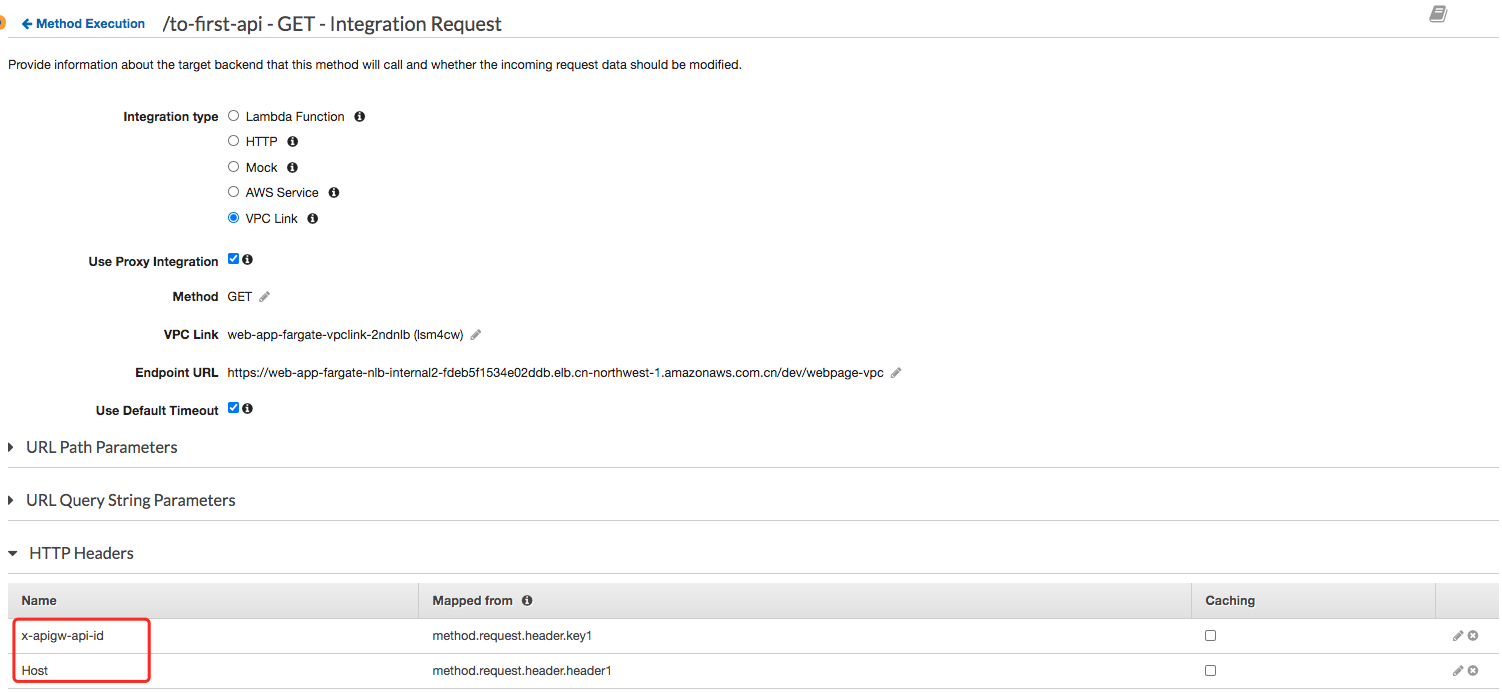
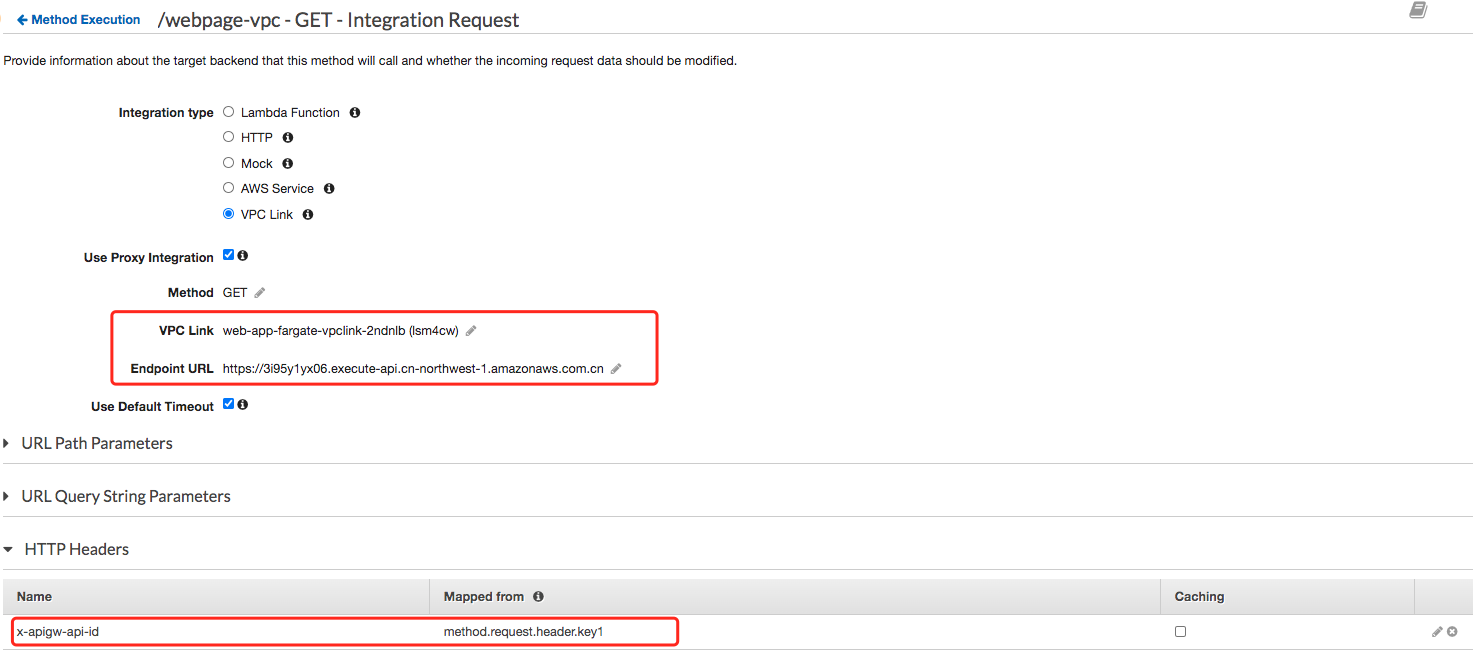
reproduce the 504 error

diff --git a/devops/apigw/2PrivateAPI-Testing.md b/devops/apigw/2PrivateAPI-Testing.md
@@ -7,7 +7,7 @@
 4. In account 1: VPC endpoint vpce-0d4d61b31cecd49fc used for private API Fargate-webpage-private (3i95y1yx06) 
 5. In account 1: NLB web-app-fargate-nlb-internal2 route traffic to private API Fargate-webpage-private (3i95y1yx06) 
 6. In account 1: VPC link web-app-fargate-vpclink-2ndnlb (lsm4cw) point to NLB web-app-fargate-nlb-internal2
-7. In account 1: Private API Fargate-private-to-first-api (v944po9kjb) /to-first-api path GET method point to VPC link integration web-app-fargate-vpclink-2ndnlb (lsm4cw) 
+7. In account 1: Private API Fargate-private-to-first-api (v944po9kjb) /webpage-vpc path GET method point to VPC link integration web-app-fargate-vpclink-2ndnlb (lsm4cw) 
 8. In account 1: VPC endpoint vpce-080de204ca78d2883 in account 1 consumer VPC for private API Fargate-private-to-first-api (v944po9kjb)
 9. In account 2: VPC endpoint vpce-08cbeb493b8abab4f used for private API Fargate-private-to-first-api (v944po9kjb) 
 
@@ -78,7 +78,7 @@ curl -v -k https://web-app-fargate-nlb-internal2-fdeb5f1534e02ddb.elb.cn-northwe
 
 ## On Provider VPC of account1 or Consumer VPC of account1 NLB web-app-fargate-nlb-internal2 with -H 'Host: 3i95y1yx06.execute-api.cn-northwest-1.amazonaws.com' - Result: 403 Forbidden
 
-The 403 caused by missing x-apigw-api-id due to NLB invoke the VPCE of API GW.
+The 403 caused by missing x-apigw-api-id when NLB invoke the VPCE of API GW.
 
 ```bash
 curl -k -v https://web-app-fargate-nlb-internal2-fdeb5f1534e02ddb.elb.cn-northwest-1.amazonaws.com.cn/dev/webpage-vpc-non-proxy -H 'Host: 3i95y1yx06.execute-api.cn-northwest-1.amazonaws.com'
@@ -184,7 +184,7 @@ curl -v https://web-app-fargate-nlb-internal2-fdeb5f1534e02ddb.elb.cn-northwest-
 
 ## On Provider VPC of account1 or Consumer VPC of account1 invoke the Private API Fargate-private-to-first-api
 
-curl -k -v https://v944po9kjb.execute-api.cn-northwest-1.amazonaws.com.cn/dev/to-first-api
+curl -k -v https://v944po9kjb.execute-api.cn-northwest-1.amazonaws.com.cn/dev/webpage-vpc
 *   Trying 172.16.33.221...
 * TCP_NODELAY set
 * Connected to v944po9kjb.execute-api.cn-northwest-1.amazonaws.com.cn (172.16.33.221) port 443 (#0)
@@ -213,7 +213,7 @@ curl -k -v https://v944po9kjb.execute-api.cn-northwest-1.amazonaws.com.cn/dev/to
 *  expire date: Apr 14 12:00:00 2021 GMT
 *  issuer: C=US; O=Amazon; OU=Server CA 1B; CN=Amazon
 *  SSL certificate verify ok.
-> GET /dev/to-first-api HTTP/1.1
+> GET /dev/webpage-vpc HTTP/1.1
 > Host: v944po9kjb.execute-api.cn-northwest-1.amazonaws.com.cn
 > User-Agent: curl/7.61.1
 > Accept: */*
@@ -237,7 +237,7 @@ Why 500 Internal server error? Let's use the API GW console Test client to find 
 ```bash
 Execution log for request 2cd9f026-8ece-42b5-a448-fcbf917ba63e
 Tue Jun 23 02:21:45 UTC 2020 : Starting execution for request: 2cd9f026-8ece-42b5-a448-fcbf917ba63e
-Tue Jun 23 02:21:45 UTC 2020 : HTTP Method: GET, Resource Path: /to-first-api
+Tue Jun 23 02:21:45 UTC 2020 : HTTP Method: GET, Resource Path: /webpage-vpc
 Tue Jun 23 02:21:45 UTC 2020 : Method request path: {}
 Tue Jun 23 02:21:45 UTC 2020 : Method request query string: {}
 Tue Jun 23 02:21:45 UTC 2020 : Method request headers: {}
@@ -253,36 +253,13 @@ Tue Jun 23 02:21:45 UTC 2020 : Method completed with status: 500
 The `500 Internal server error` is caused by SSL check the request Host does not match the certificate subject
 Could we pass through the Host of final private API Fargate-webpage-private?
 
-## Directly invoke from API GW console Test client with
-Host:3i95y1yx06.execute-api.cn-northwest-1.amazonaws.com
-x-apigw-api-id:3i95y1yx06
+Let's double check the API Fargate-private-to-first-api private integration setting, seems I do not set correct Endpoint URL
 
-```bash
-Execution log for request ffff1427-15d4-461e-9f09-175229978c9f
-Tue Jun 23 01:27:35 UTC 2020 : Starting execution for request: ffff1427-15d4-461e-9f09-175229978c9f
-Tue Jun 23 01:27:35 UTC 2020 : HTTP Method: GET, Resource Path: /to-first-api-non-proxy
-Tue Jun 23 01:27:35 UTC 2020 : Method request path: {}
-Tue Jun 23 01:27:35 UTC 2020 : Method request query string: {}
-Tue Jun 23 01:27:35 UTC 2020 : Method request headers: {Host= 3i95y1yx06.execute-api.cn-northwest-1.amazonaws.com}
-Tue Jun 23 01:27:35 UTC 2020 : Method request body before transformations: 
-Tue Jun 23 01:27:35 UTC 2020 : Endpoint request URI: https://web-app-fargate-nlb-internal2-fdeb5f1534e02ddb.elb.cn-northwest-1.amazonaws.com.cn/dev/webpage-vpc-non-proxy
-Tue Jun 23 01:27:35 UTC 2020 : Endpoint request headers: {x-amzn-apigateway-api-id=v944po9kjb, Accept=application/json, User-Agent=AmazonAPIGateway_v944po9kjb, Host=web-app-fargate-nlb-internal2-fdeb5f1534e02ddb.elb.cn-northwest-1.amazonaws.com.cn, X-Amzn-Trace-Id=Root=1-5ef15a87-b31c1b2f5b53eaff76a0b7f2}
-Tue Jun 23 01:27:35 UTC 2020 : Endpoint request body after transformations: 
-Tue Jun 23 01:27:35 UTC 2020 : Sending request to https://web-app-fargate-nlb-internal2-fdeb5f1534e02ddb.elb.cn-northwest-1.amazonaws.com.cn/dev/webpage-vpc-non-proxy
-Tue Jun 23 01:27:35 UTC 2020 : Execution failed due to configuration error: Host name 'web-app-fargate-nlb-internal2-fdeb5f1534e02ddb.elb.cn-northwest-1.amazonaws.com.cn' does not match the certificate subject provided by the peer (CN=*.execute-api.cn-northwest-1.amazonaws.com.cn)
-Tue Jun 23 01:27:35 UTC 2020 : Method completed with status: 500
-```
+The uri parameter is not used for routing requests to your endpoint, but is used for setting the Host header and for certificate validation.
 
-Seems the default header cannot pass through:
-
-```bash
-Endpoint request headers: {x-amzn-apigateway-api-id=v944po9kjb, Accept=application/json, User-Agent=AmazonAPIGateway_v944po9kjb, Host=web-app-fargate-nlb-internal2-fdeb5f1534e02ddb.elb.cn-northwest-1.amazonaws.com.cn, X-Amzn-Trace-Id=Root=1-5ef15a87-b31c1b2f5b53eaff76a0b7f2}
-```
-
-So we define the customer header in API GW and do the mapping
+So the correct value should be the first private API Fargate-webpage-private (3i95y1yx06): https://3i95y1yx06.execute-api.cn-northwest-1.amazonaws.com.cn
 
 ## Define propagate customer header
-method.request.header.header1
 method.request.header.key1
 
 ![Fargate-private-to-first-api-customerheader1](media/Fargate-private-to-first-api-customerheader1.png)
@@ -290,32 +267,37 @@ method.request.header.key1
 ![Fargate-private-to-first-api-customerheader2](media/Fargate-private-to-first-api-customerheader2.png)
 
 1. Directly invoke from API GW console Test client with 
-
-header1:3i95y1yx06.execute-api.cn-northwest-1.amazonaws.com
 key1:3i95y1yx06
 
 ```bash
-Execution log for request 3db20ab4-7ec5-4725-b080-21f15f11a805
-Tue Jun 23 01:57:18 UTC 2020 : Starting execution for request: 3db20ab4-7ec5-4725-b080-21f15f11a805
-Tue Jun 23 01:57:18 UTC 2020 : HTTP Method: GET, Resource Path: /to-first-api
-Tue Jun 23 01:57:18 UTC 2020 : Method request path: {}
-Tue Jun 23 01:57:18 UTC 2020 : Method request query string: {}
-Tue Jun 23 01:57:18 UTC 2020 : Method request headers: {key1=3i95y1yx06, header1=3i95y1yx06.execute-api.cn-northwest-1.amazonaws.com}
-Tue Jun 23 01:57:18 UTC 2020 : Method request body before transformations: 
-Tue Jun 23 01:57:18 UTC 2020 : Endpoint request URI: https://web-app-fargate-nlb-internal2-fdeb5f1534e02ddb.elb.cn-northwest-1.amazonaws.com.cn/dev/webpage-vpc
-Tue Jun 23 01:57:18 UTC 2020 : Endpoint request headers: {key1=3i95y1yx06, header1=3i95y1yx06.execute-api.cn-northwest-1.amazonaws.com, x-amzn-apigateway-api-id=v944po9kjb, User-Agent=AmazonAPIGateway_v944po9kjb, Host=web-app-fargate-nlb-internal2-fdeb5f1534e02ddb.elb.cn-northwest-1.amazonaws.com.cn, x-apigw-api-id=3i95y1yx06}
-Tue Jun 23 01:57:18 UTC 2020 : Endpoint request body after transformations: 
-Tue Jun 23 01:57:18 UTC 2020 : Sending request to https://web-app-fargate-nlb-internal2-fdeb5f1534e02ddb.elb.cn-northwest-1.amazonaws.com.cn/dev/webpage-vpc
-Tue Jun 23 01:57:18 UTC 2020 : Execution failed due to configuration error: Host name 'web-app-fargate-nlb-internal2-fdeb5f1534e02ddb.elb.cn-northwest-1.amazonaws.com.cn' does not match the certificate subject provided by the peer (CN=*.execute-api.cn-northwest-1.amazonaws.com.cn)
-Tue Jun 23 01:57:18 UTC 2020 : Method completed with status: 500
+Execution log for request 184996c0-dfb8-4095-9305-59b46a06f147
+Tue Jun 23 05:56:11 UTC 2020 : Starting execution for request: 184996c0-dfb8-4095-9305-59b46a06f147
+Tue Jun 23 05:56:11 UTC 2020 : HTTP Method: GET, Resource Path: /webpage-vpc
+Tue Jun 23 05:56:11 UTC 2020 : Method request path: {}
+Tue Jun 23 05:56:11 UTC 2020 : Method request query string: {}
+Tue Jun 23 05:56:11 UTC 2020 : Method request headers: {key1=3i95y1yx06}
+Tue Jun 23 05:56:11 UTC 2020 : Method request body before transformations: 
+Tue Jun 23 05:56:11 UTC 2020 : Endpoint request URI: https://3i95y1yx06.execute-api.cn-northwest-1.amazonaws.com.cn
+Tue Jun 23 05:56:11 UTC 2020 : Endpoint request headers: {key1=3i95y1yx06, x-amzn-apigateway-api-id=v944po9kjb, User-Agent=AmazonAPIGateway_v944po9kjb, Host=3i95y1yx06.execute-api.cn-northwest-1.amazonaws.com.cn, x-apigw-api-id=3i95y1yx06}
+Tue Jun 23 05:56:11 UTC 2020 : Endpoint request body after transformations: 
+Tue Jun 23 05:56:11 UTC 2020 : Sending request to https://3i95y1yx06.execute-api.cn-northwest-1.amazonaws.com.cn
+Tue Jun 23 05:56:11 UTC 2020 : Received response. Status: 403, Integration latency: 19 ms
+Tue Jun 23 05:56:11 UTC 2020 : Endpoint response headers: {Server=Server, Date=Tue, 23 Jun 2020 05:56:11 GMT, Content-Type=application/json, Content-Length=23, Connection=keep-alive, x-amzn-RequestId=da814d3f-8d91-4eae-94a9-f2b283ed0cf7, x-amzn-ErrorType=ForbiddenException, x-amz-apigw-id=OkTrUEOEZPgFQFw=}
+Tue Jun 23 05:56:11 UTC 2020 : Endpoint response body before transformations: {"message":"Forbidden"}
+Tue Jun 23 05:56:11 UTC 2020 : Method response body after transformations: {"message":"Forbidden"}
+Tue Jun 23 05:56:11 UTC 2020 : Method response headers: {Server=Server, Date=Tue, 23 Jun 2020 05:56:11 GMT, Content-Type=application/json, Content-Length=23, Connection=keep-alive, x-amzn-RequestId=da814d3f-8d91-4eae-94a9-f2b283ed0cf7, x-amzn-ErrorType=ForbiddenException, x-amz-apigw-id=OkTrUEOEZPgFQFw=}
+Tue Jun 23 05:56:11 UTC 2020 : Successfully completed execution
+Tue Jun 23 05:56:11 UTC 2020 : Method completed with status: 403
 ```
 
-2. We test on Provider VPC of account1 or Consumer VPC of account1 invoke the Private API Fargate-private-to-first-api with
+2. We test on Provider VPC of account1 or Consumer VPC of account1 invoke the Private API Fargate-private-to-first-api
+
+- Use Proxy Integration
 
 ```bash
-curl -k -v https://v944po9kjb.execute-api.cn-northwest-1.amazonaws.com.cn/dev/to-first-api -H 'key1:3i95y1yx06' -H 'header1:3i95y1yx06.execute-api.cn-northwest-1.amazonaws.com'
+curl -k -v https://v944po9kjb.execute-api.cn-northwest-1.amazonaws.com.cn/dev/webpage-vpc -H 'key1:3i95y1yx06'
 
-   Trying 172.16.33.221...
+*   Trying 172.16.33.221...
 * TCP_NODELAY set
 * Connected to v944po9kjb.execute-api.cn-northwest-1.amazonaws.com.cn (172.16.33.221) port 443 (#0)
 * ALPN, offering h2
@@ -343,24 +325,182 @@ curl -k -v https://v944po9kjb.execute-api.cn-northwest-1.amazonaws.com.cn/dev/to
 *  expire date: Apr 14 12:00:00 2021 GMT
 *  issuer: C=US; O=Amazon; OU=Server CA 1B; CN=Amazon
 *  SSL certificate verify ok.
-> GET /dev/to-first-api HTTP/1.1
+> GET /dev/webpage-vpc HTTP/1.1
 > Host: v944po9kjb.execute-api.cn-northwest-1.amazonaws.com.cn
 > User-Agent: curl/7.61.1
 > Accept: */*
 > key1:3i95y1yx06
-> header1:3i95y1yx06.execute-api.cn-northwest-1.amazonaws.com
 >
-< HTTP/1.1 500 Internal Server Error
+< HTTP/1.1 504 Gateway Timeout
 < Server: Server
-< Date: Tue, 23 Jun 2020 03:18:23 GMT
+< Date: Tue, 23 Jun 2020 05:57:06 GMT
 < Content-Type: application/json
-< Content-Length: 36
+< Content-Length: 56
 < Connection: keep-alive
-< x-amzn-RequestId: 54bdd397-329b-4351-94f5-53379d3bfc43
+< x-amzn-RequestId: 32df3c57-da89-4d29-b584-627b85e273b9
 < x-amzn-ErrorType: InternalServerErrorException
-< x-amz-apigw-id: Oj8j7Eb95PgFjMw=
+< x-amz-apigw-id: OkTz-Fm25PgFdlg=
 <
 * Connection #0 to host v944po9kjb.execute-api.cn-northwest-1.amazonaws.com.cn left intact
-{"message": "Internal server error"}
+{"message": "Network error communicating with endpoint"}
 ```
 
+- Non Use Proxy Integration
+
+```bash
+curl -k -v https://v944po9kjb.execute-api.cn-northwest-1.amazonaws.com.cn/dev/webpage-vpc-non-proxy -H 'key1:3i95y1yx06'
+*   Trying 172.16.33.221...
+* TCP_NODELAY set
+* Connected to v944po9kjb.execute-api.cn-northwest-1.amazonaws.com.cn (172.16.33.221) port 443 (#0)
+* ALPN, offering h2
+* ALPN, offering http/1.1
+* Cipher selection: ALL:!EXPORT:!EXPORT40:!EXPORT56:!aNULL:!LOW:!RC4:@STRENGTH
+* successfully set certificate verify locations:
+*   CAfile: /etc/pki/tls/certs/ca-bundle.crt
+  CApath: none
+* TLSv1.2 (OUT), TLS header, Certificate Status (22):
+* TLSv1.2 (OUT), TLS handshake, Client hello (1):
+* TLSv1.2 (IN), TLS handshake, Server hello (2):
+* TLSv1.2 (IN), TLS handshake, Certificate (11):
+* TLSv1.2 (IN), TLS handshake, Server key exchange (12):
+* TLSv1.2 (IN), TLS handshake, Server finished (14):
+* TLSv1.2 (OUT), TLS handshake, Client key exchange (16):
+* TLSv1.2 (OUT), TLS change cipher, Change cipher spec (1):
+* TLSv1.2 (OUT), TLS handshake, Finished (20):
+* TLSv1.2 (IN), TLS change cipher, Change cipher spec (1):
+* TLSv1.2 (IN), TLS handshake, Finished (20):
+* SSL connection using TLSv1.2 / ECDHE-RSA-AES128-GCM-SHA256
+* ALPN, server did not agree to a protocol
+* Server certificate:
+*  subject: CN=*.execute-api.cn-northwest-1.amazonaws.com.cn
+*  start date: Apr 24 00:00:00 2020 GMT
+*  expire date: Apr 14 12:00:00 2021 GMT
+*  issuer: C=US; O=Amazon; OU=Server CA 1B; CN=Amazon
+*  SSL certificate verify ok.
+> GET /dev/webpage-vpc-non-proxy HTTP/1.1
+> Host: v944po9kjb.execute-api.cn-northwest-1.amazonaws.com.cn
+> User-Agent: curl/7.61.1
+> Accept: */*
+> key1:3i95y1yx06
+>
+< HTTP/1.1 200 OK
+< Server: Server
+< Date: Tue, 23 Jun 2020 05:58:07 GMT
+< Content-Type: application/json
+< Content-Length: 24
+< Connection: keep-alive
+< x-amzn-RequestId: babdf8f5-5ba0-41c9-9973-07d39a8dd53f
+< x-amz-apigw-id: OkT9cFi55PgFRpA=
+< X-Amzn-Trace-Id: Root=1-5ef199ef-8d47ca618435e73b508686ed
+<
+{"message":"Forbidden"}
+* Connection #0 to host v944po9kjb.execute-api.cn-northwest-1.amazonaws.com.cn left intact
+```
+
+3. We test on Consumer VPC of account2 invoke the Private API Fargate-private-to-first-api
+
+- Use Proxy Integration
+
+```bash
+curl -k -v https://v944po9kjb.execute-api.cn-northwest-1.amazonaws.com.cn/dev/webpage-vpc -H 'key1:3i95y1yx06'
+
+*   Trying 172.31.22.155...
+* TCP_NODELAY set
+* Connected to v944po9kjb.execute-api.cn-northwest-1.amazonaws.com.cn (172.31.22.155) port 443 (#0)
+* ALPN, offering h2
+* ALPN, offering http/1.1
+* Cipher selection: ALL:!EXPORT:!EXPORT40:!EXPORT56:!aNULL:!LOW:!RC4:@STRENGTH
+* successfully set certificate verify locations:
+*   CAfile: /etc/pki/tls/certs/ca-bundle.crt
+  CApath: none
+* TLSv1.2 (OUT), TLS header, Certificate Status (22):
+* TLSv1.2 (OUT), TLS handshake, Client hello (1):
+* TLSv1.2 (IN), TLS handshake, Server hello (2):
+* TLSv1.2 (IN), TLS handshake, Certificate (11):
+* TLSv1.2 (IN), TLS handshake, Server key exchange (12):
+* TLSv1.2 (IN), TLS handshake, Server finished (14):
+* TLSv1.2 (OUT), TLS handshake, Client key exchange (16):
+* TLSv1.2 (OUT), TLS change cipher, Change cipher spec (1):
+* TLSv1.2 (OUT), TLS handshake, Finished (20):
+* TLSv1.2 (IN), TLS change cipher, Change cipher spec (1):
+* TLSv1.2 (IN), TLS handshake, Finished (20):
+* SSL connection using TLSv1.2 / ECDHE-RSA-AES128-GCM-SHA256
+* ALPN, server did not agree to a protocol
+* Server certificate:
+*  subject: CN=*.execute-api.cn-northwest-1.amazonaws.com.cn
+*  start date: Apr 24 00:00:00 2020 GMT
+*  expire date: Apr 14 12:00:00 2021 GMT
+*  issuer: C=US; O=Amazon; OU=Server CA 1B; CN=Amazon
+*  SSL certificate verify ok.
+> GET /dev/webpage-vpc HTTP/1.1
+> Host: v944po9kjb.execute-api.cn-northwest-1.amazonaws.com.cn
+> User-Agent: curl/7.61.1
+> Accept: */*
+> key1:3i95y1yx06
+>
+< HTTP/1.1 504 Gateway Timeout
+< Server: Server
+< Date: Tue, 23 Jun 2020 06:05:10 GMT
+< Content-Type: application/json
+< Content-Length: 56
+< Connection: keep-alive
+< x-amzn-RequestId: 870ff1d9-18a0-4212-9365-dcc9c90d77bf
+< x-amzn-ErrorType: InternalServerErrorException
+< x-amz-apigw-id: OkU_lFMuZPgF-Ag=
+<
+* Connection #0 to host v944po9kjb.execute-api.cn-northwest-1.amazonaws.com.cn left intact
+{"message": "Network error communicating with endpoint"}
+```
+
+- Non Use Proxy Integration
+
+```bash
+curl -k -v https://v944po9kjb.execute-api.cn-northwest-1.amazonaws.com.cn/dev/webpage-vpc-non-proxy -H 'key1:3i95y1yx06'
+
+*   Trying 172.31.22.155...
+* TCP_NODELAY set
+* Connected to v944po9kjb.execute-api.cn-northwest-1.amazonaws.com.cn (172.31.22.155) port 443 (#0)
+* ALPN, offering h2
+* ALPN, offering http/1.1
+* Cipher selection: ALL:!EXPORT:!EXPORT40:!EXPORT56:!aNULL:!LOW:!RC4:@STRENGTH
+* successfully set certificate verify locations:
+*   CAfile: /etc/pki/tls/certs/ca-bundle.crt
+  CApath: none
+* TLSv1.2 (OUT), TLS header, Certificate Status (22):
+* TLSv1.2 (OUT), TLS handshake, Client hello (1):
+* TLSv1.2 (IN), TLS handshake, Server hello (2):
+* TLSv1.2 (IN), TLS handshake, Certificate (11):
+* TLSv1.2 (IN), TLS handshake, Server key exchange (12):
+* TLSv1.2 (IN), TLS handshake, Server finished (14):
+* TLSv1.2 (OUT), TLS handshake, Client key exchange (16):
+* TLSv1.2 (OUT), TLS change cipher, Change cipher spec (1):
+* TLSv1.2 (OUT), TLS handshake, Finished (20):
+* TLSv1.2 (IN), TLS change cipher, Change cipher spec (1):
+* TLSv1.2 (IN), TLS handshake, Finished (20):
+* SSL connection using TLSv1.2 / ECDHE-RSA-AES128-GCM-SHA256
+* ALPN, server did not agree to a protocol
+* Server certificate:
+*  subject: CN=*.execute-api.cn-northwest-1.amazonaws.com.cn
+*  start date: Apr 24 00:00:00 2020 GMT
+*  expire date: Apr 14 12:00:00 2021 GMT
+*  issuer: C=US; O=Amazon; OU=Server CA 1B; CN=Amazon
+*  SSL certificate verify ok.
+> GET /dev/webpage-vpc-non-proxy HTTP/1.1
+> Host: v944po9kjb.execute-api.cn-northwest-1.amazonaws.com.cn
+> User-Agent: curl/7.61.1
+> Accept: */*
+> key1:3i95y1yx06
+>
+< HTTP/1.1 200 OK
+< Server: Server
+< Date: Tue, 23 Jun 2020 06:05:55 GMT
+< Content-Type: application/json
+< Content-Length: 24
+< Connection: keep-alive
+< x-amzn-RequestId: a3553730-c26b-4630-ba17-2dd7d7859c4b
+< x-amz-apigw-id: OkVGhEjAZPgFt_Q=
+< X-Amzn-Trace-Id: Root=1-5ef19bc3-edf99c5445d1c54a43653021
+<
+{"message":"Forbidden"}
+* Connection #0 to host v944po9kjb.execute-api.cn-northwest-1.amazonaws.com.cn left intact
+```
